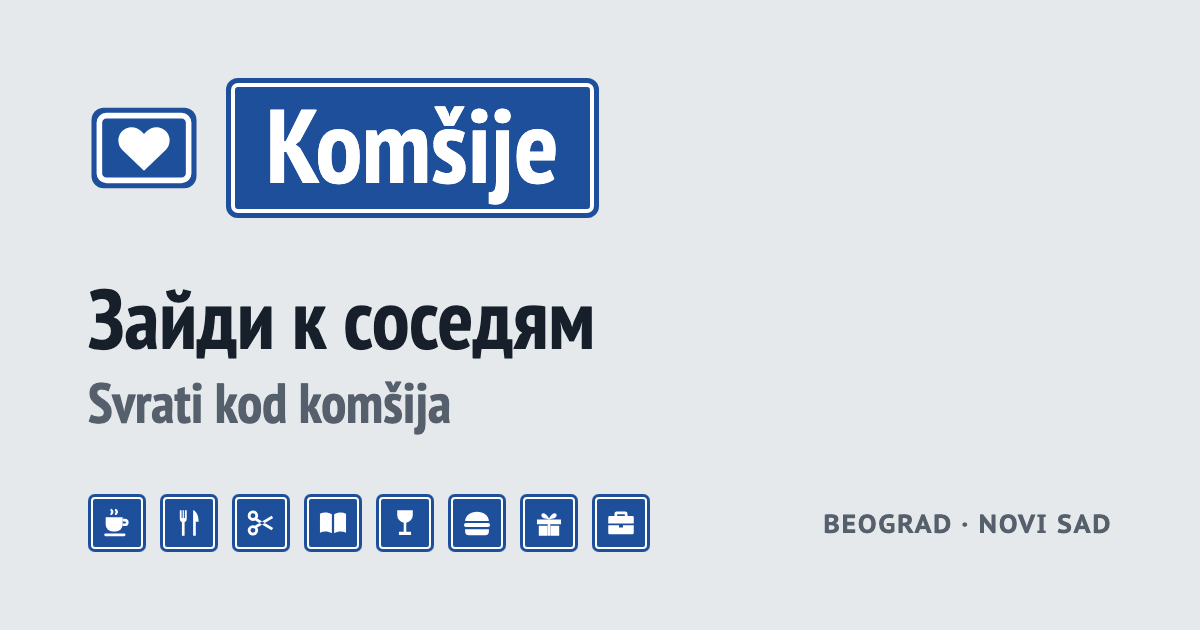
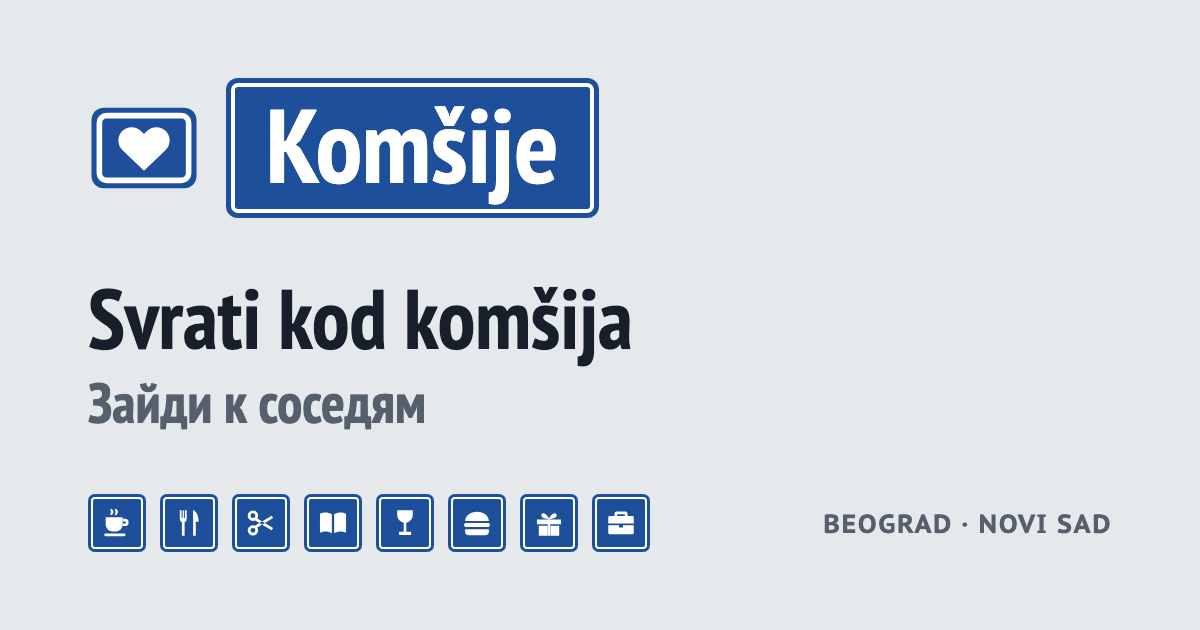
Make link preview Serbian by default

Changed region(s): [[0.0617, 0.4524, 0.5242, 0.6032], [0.0617, 0.6032, 0.4008, 0.6937]]

diff --git a/site/index.html b/site/index.html
@@ -1,13 +1,16 @@
 <!doctype html>
-<html lang="ru">
+<html lang="sr-Latn">
 <head>
 <meta charset="utf-8">
 <meta name="viewport" content="width=device-width, initial-scale=1">
-<title>Комшије · Зайди к соседям</title>
-<meta name="description" content="Кафе, салоны, книжные и мастерские в Белграде и Нови-Саде, у которых были счета в Alta banka. Список с тегами и карта: найди, что рядом.">
+<!-- Превью ссылки и то, что видно до скрипта, — по-сербски: так ссылку видят оба языка (язык интерфейса app.js выбирает сам) -->
+<title>Komšije · Svrati kod komšija</title>
+<meta name="description" content="Kafići, saloni, knjižare i radionice u Beogradu i Novom Sadu koji su imali račune u Alta banci. Spisak sa tagovima i mapa: pronađi šta je blizu.">
 <meta property="og:site_name" content="Komšije">
-<meta property="og:title" content="Зайди к соседям">
-<meta property="og:description" content="Бизнесы в Белграде и Нови-Саде, чьи деньги застряли в Alta banka. Найди, что рядом, и зайди.">
+<meta property="og:locale" content="sr_RS">
+<meta property="og:locale:alternate" content="ru_RU">
+<meta property="og:title" content="Svrati kod komšija">
+<meta property="og:description" content="Biznisi u Beogradu i Novom Sadu čiji je novac zaglavljen u Alta banci. Pronađi šta je blizu i svrati.">
 <meta property="og:type" content="website">
 <!-- Превью в мессенджерах: полный адрес обязателен; тот же адрес — site_url в config.json -->
 <meta property="og:url" content="https://komsije.cherdak.rs/">
@@ -37,8 +40,8 @@
         </div>
         <p class="eyebrow" id="eyebrow"></p>
       </div>
-      <h1 id="title">Зайди к соседям</h1>
-      <p class="lede" id="lede">Здесь бизнесы, чьи деньги застряли в Alta banka, а аренда и зарплаты ждать не могут. Среди них могут оказаться и твои соседи: кофейня, парикмахер, книжный за углом. Зайти к ним сейчас значит больше, чем обычно.</p>
+      <h1 id="title">Svrati kod komšija</h1>
+      <p class="lede" id="lede">Ovde su biznisi čiji je novac zaglavljen u Alta banci, a kirija i plate ne mogu da čekaju. Među njima su možda i tvoje komšije: kafić, frizer, knjižara iza ugla. Svratiti kod njih sada znači više nego inače.</p>
       <aside class="source" aria-labelledby="source-label">
         <p class="source-label" id="source-label">Откуда список</p>
         <p class="source-text" id="source-text"></p>
@@ -74,7 +77,7 @@
 
 <div class="toast" id="toast" role="status" aria-live="polite"></div>
 
-<noscript><p class="noscript">Список работает с JavaScript. Без него: <a href="https://docs.google.com/spreadsheets/d/1IBRo4Frwh6ph5q1Bykk8JeNIzJwntW5JVyS1YGQXJCE/htmlview">открытая таблица</a>.</p></noscript>
+<noscript><p class="noscript">Spisak radi uz JavaScript. Bez njega: <a href="https://docs.google.com/spreadsheets/d/1IBRo4Frwh6ph5q1Bykk8JeNIzJwntW5JVyS1YGQXJCE/htmlview">otvorena tabela</a>.</p></noscript>
 
 <!-- Счётчик GoatCounter: без кук и без данных о посетителе (CLAUDE.md, инвариант 6). Путь — без параметров,
      чтобы ?b=… не плодил страницы; что открыли — события из app.js. С localhost не считает. -->

diff --git a/src/komsije/build.py b/src/komsije/build.py
@@ -320,13 +320,14 @@ def read_data() -> dict | None:
 
 
 STUB = """<!doctype html>
-<html lang="ru">
+<html lang="sr-Latn">
 <head>
 <meta charset="utf-8">
 <title>{name} · Komšije</title>
 <meta name="description" content="{desc}">
 <link rel="icon" href="../../favicon.svg" type="image/svg+xml">
 <meta property="og:site_name" content="Komšije">
+<meta property="og:locale" content="sr_RS">
 <meta property="og:title" content="{name}">
 <meta property="og:description" content="{desc}">
 <meta property="og:type" content="website">{image}

diff --git a/brand/style-guide.md b/brand/style-guide.md
@@ -50,7 +50,7 @@
 - **Ссылки бизнеса** (Instagram, Telegram, Threads, сайт) — квадратные кнопки 34 px со значком цветом `accent` на фоне `bg`, без подписи; название — в подсказке и `aria-label`. Значки сервисов — одноцветные знаки в том же духе, что пиктограммы категорий. Instagram, Telegram и сайт нарисованы свои; Threads — точная форма знака из Simple Icons (CC0), потому что своя «@» читалась как почта (2 ноя). Для знаков сервисов узнаваемость важнее единого почерка. «Маршрут» и «Поделиться» остаются текстом: это главные действия.
 - **Точка на карте всегда одного размера.** Выбранная выворачивается (белая табличка, синий значок, ореол) и встаёт поверх соседних; при наведении на карточку — только ореол. Увеличение как признак выбора отвергнуто: читалось как разнобой размеров (2 ноя).
 - **Карточки и кнопки:** скругление 4 px, рамка 1 px, без теней сверх едва заметной линии снизу.
-- **Превью ссылки** (`og.png`, 1200×630): фон `fasad`, иконка-сердце и табличка «Komšije» латиницей (превью видят оба языка, латиницу читают все), заголовок на двух языках, внизу ряд пиктограмм в табличках и «Beograd · Novi Sad». Одна картинка на сайт и на все ссылки «Поделиться».
+- **Превью ссылки** (`og.png`, 1200×630): фон `fasad`, иконка-сердце и табличка «Komšije» латиницей (превью видят оба языка, латиницу читают все), заголовок на двух языках, сербский крупно, русский подписью (заголовок и описание превью тоже по-сербски), внизу ряд пиктограмм в табличках и «Beograd · Novi Sad». Одна картинка на сайт и на все ссылки «Поделиться».
 
 ## Нельзя
 
@@ -70,7 +70,7 @@
 - **Раунд 4, 2 ноя:** табличка в одну строку и значки категорий: свои пиктограммы против эмодзи. **Выбраны пиктограммы.** Адреса решено не переводить.
 - **Имя, 2 ноя:** «Svrati» → «Komšije»: имя называет, кто это, а заголовок «Svrati kod komšija» — что делать.
 - **Иконка вкладки, 2 ноя:** буква «К» → сердце в табличке; проверено в 16, 32 и 54 px и на тёмной вкладке.
-- **Превью ссылки, 2 ноя:** `og.png` в форме таблички.
+- **Превью ссылки, 2 ноя:** `og.png` в форме таблички; в тот же день сербский заголовок стал главным, русский ушел в подпись.
 
 Песочница раундов — вне репозитория (страницы вариантов и скриншоты).
 
